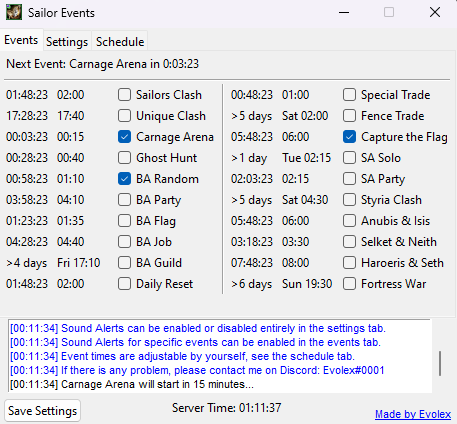
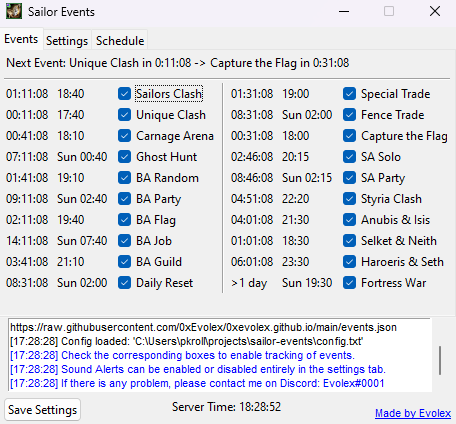
1.5 changelogs

diff --git a/main.js b/main.js
@@ -38,7 +38,29 @@ document.addEventListener('DOMContentLoaded', (event) => {
     changeLogDiv.innerHTML = `
         <h3 style="text-align: left;">Changelog</h3>
         <p style="text-align: left;">
-            <h2>1.4 Version - Latest<br></h2>
+            <h2>1.5 Version - Latest<br></h2>
+            1. Better visiblity and event tracking!<br>
+            <br>
+            &emsp; Now only events that are checked will be tracked in the "Next Event" headline.<br>
+            &emsp; Additionally, the "Next Event" headline will now show the next 2 events instead of just 1.<br>
+            <br>
+            2. Improvements to voice selection!<br>
+            <br>
+            &emsp; You can now choose voices that are available on your system, instead of switching between male/female (which was kinda buggy).<br>
+            <br>
+            3. No more updating for tooltip changes!<br>
+            <br>
+            &emsp; The app will now fetch the tooltips from the github repository, meaning on tooltip updates you only have to restart the app.<br>
+            <br>
+            5. Donations!<br>
+            <br>
+            &emsp; Added a donation button, if you like the app and want to support me, you can now do so!<br>
+            <br>
+            4. GUI improvements!<br>
+            <br>
+            &emsp; Voice selection is a dropdown now, slider has been updated to a more modern look.<br>
+            <br>
+            <h2>1.4 Version - Outdated<br></h2>
             1. No more events.json!<br>
             <br>
             &emsp;All events are now stored in a public github repository and the app will fetch them from it.<br>
@@ -66,18 +88,6 @@ document.addEventListener('DOMContentLoaded', (event) => {
             <br>
             &emsp;a. Added a changelog to the website.<br>
             &emsp;b. Added a volume slider for sound alerts. (Requested by @webdev7)<br>
-            <h2>Coming soon / to be evaluated<br></h2>
-            1. Request from #imafkinpotato: Option for minimizing to system tray instead of task bar<br>
-            2. Request from #luminescencex: Only show events on the headline that you checked (+ dont log unchecked events)<br>
-            3. Request #webdev7: Ring sounds instead of voice sounds<br>
-            4. Show 2 next events on the headline instead of just 1 (Next Event: Ghost Hunt in 07:13 -> BA Random in 47:13)<br>
-            5. Indicate which events are running right now, it should display RUNNING on the timer label<br>
-            6. Request from (sorry I forgot): Option to disable lock out when theres a new version available<br>
-            7. Dark mode and or other themes<br>
-            8. More voice styles for sound alerts<br>
-            9. Auto update / download new version<br>
-            10. Autostart on boot<br>
-            11. Move away from tkinter and use a better GUI framework
             <h2>1.3 Version - Outdated<br></h2>
             1. A few bug fixes when transitioning to another day, happened with big timezone differences<br>
             2. Added fortress war timer<br>
